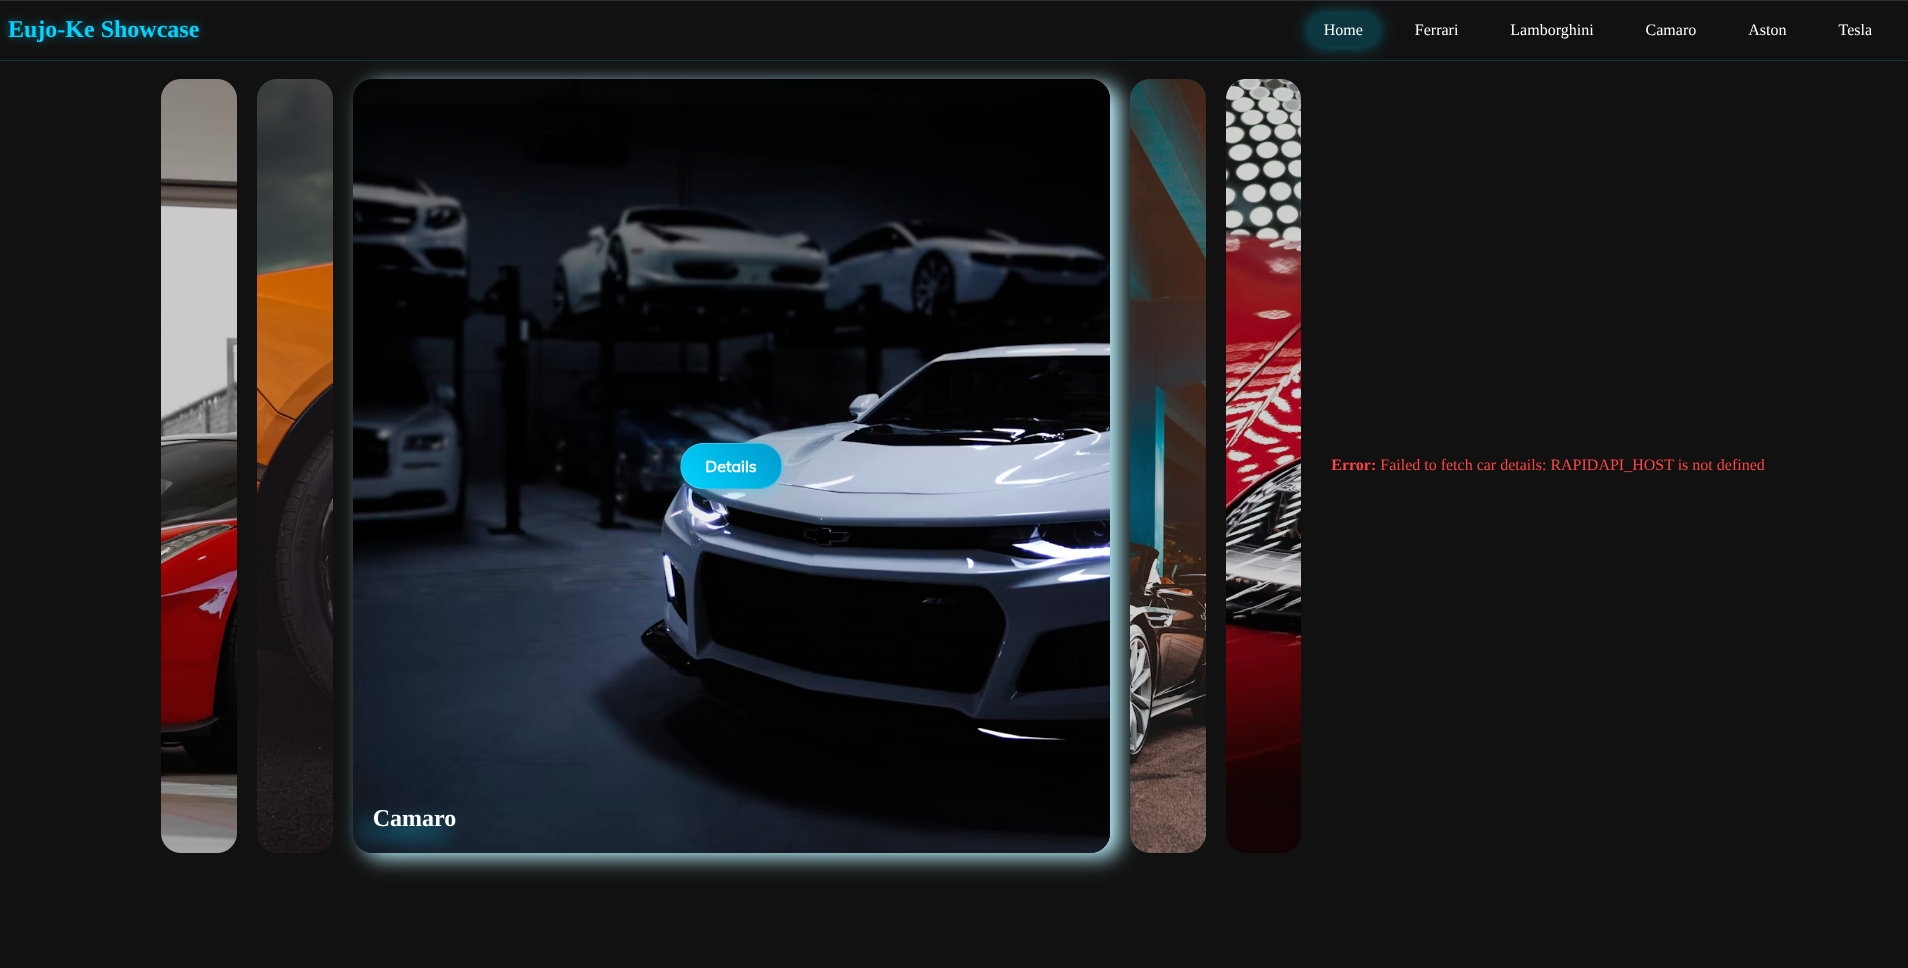
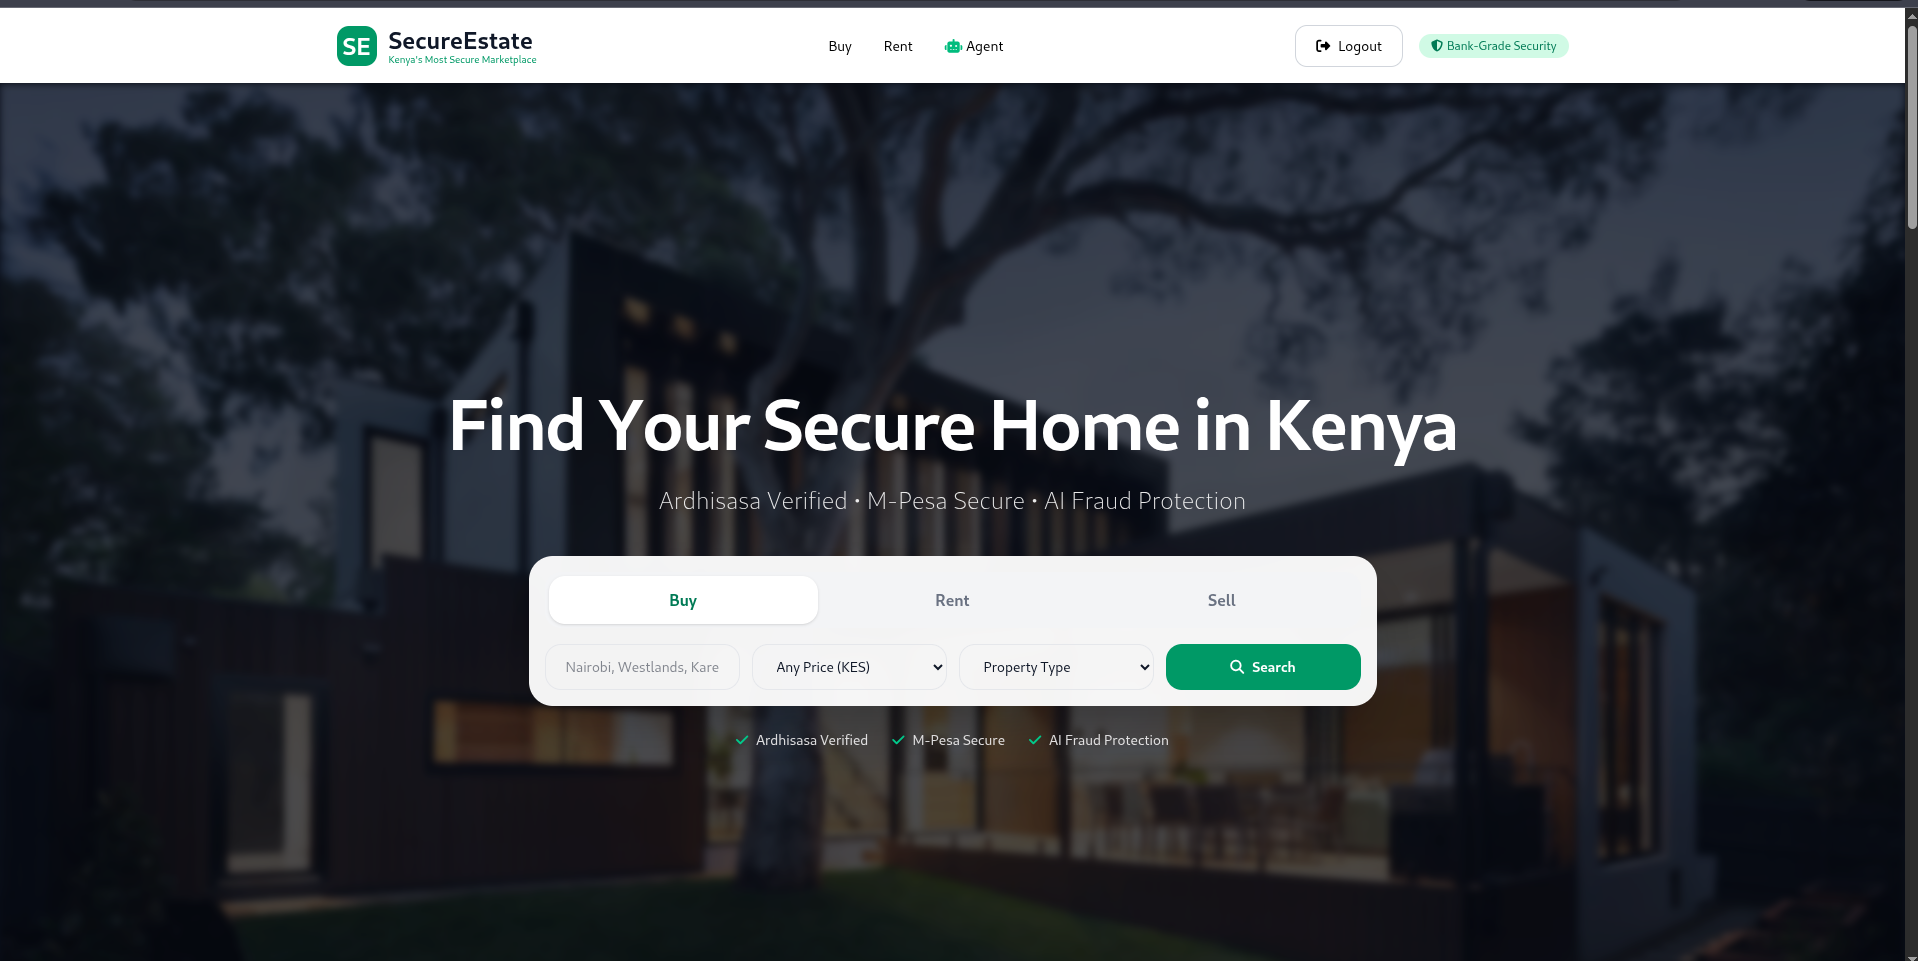
Project changes

diff --git a/index.html b/index.html
@@ -170,18 +170,19 @@
         <div class="work-list">
 
             <!-- Project 1 -->
-            <div class="work">
-                <a href="https://eugine-kelly.github.io/Scorp-Zone-Commerce/" target="_blank">
-                    <img src="images/Proj1.png" alt="Project 1 Screenshot">
+             <div class="work">
+                <a href="https://estatesecure.netlify.app/" target="_blank">
+                    <img src="images/Proj3.png" alt="Project 3 Screenshot">
                 </a>
                 <div class="layer">
-                    <h3>Vue.JS Project</h3>
-                    <p>Developed an ecommerce application using Vue.js, featuring a user-friendly interface</p>
-                    <a href="https://eugine-kelly.github.io/Scorp-Zone-Commerce/" target="_blank">
+                    <h3>Real Estate market place</h3>
+                    <p>Full-stack web app</p>
+                    <a href="https://estatesecure.netlify.app/" target="_blank">
                         <i class="fa-solid fa-up-right-from-square"></i>
                     </a>
                 </div>
             </div>
+           
 
             <!-- Project 2 -->
             <div class="work">
@@ -199,13 +200,13 @@
 
             <!-- Project 3 -->
             <div class="work">
-                <a href="https://eugine-kelly.github.io/ShowCase/" target="_blank">
-                    <img src="images/Proj3.png" alt="Project 3 Screenshot">
+                <a href="https://eugine-kelly.github.io/Scorp-Zone-Commerce/" target="_blank">
+                    <img src="images/Proj1.png" alt="Project 1 Screenshot">
                 </a>
                 <div class="layer">
-                    <h3>Car show case</h3>
-                    <p>React web app</p>
-                    <a href="https://eugine-kelly.github.io/ShowCase/" target="_blank">
+                    <h3>Vue.JS Project</h3>
+                    <p>Developed an ecommerce application using Vue.js, featuring a user-friendly interface</p>
+                    <a href="https://eugine-kelly.github.io/Scorp-Zone-Commerce/" target="_blank">
                         <i class="fa-solid fa-up-right-from-square"></i>
                     </a>
                 </div>
